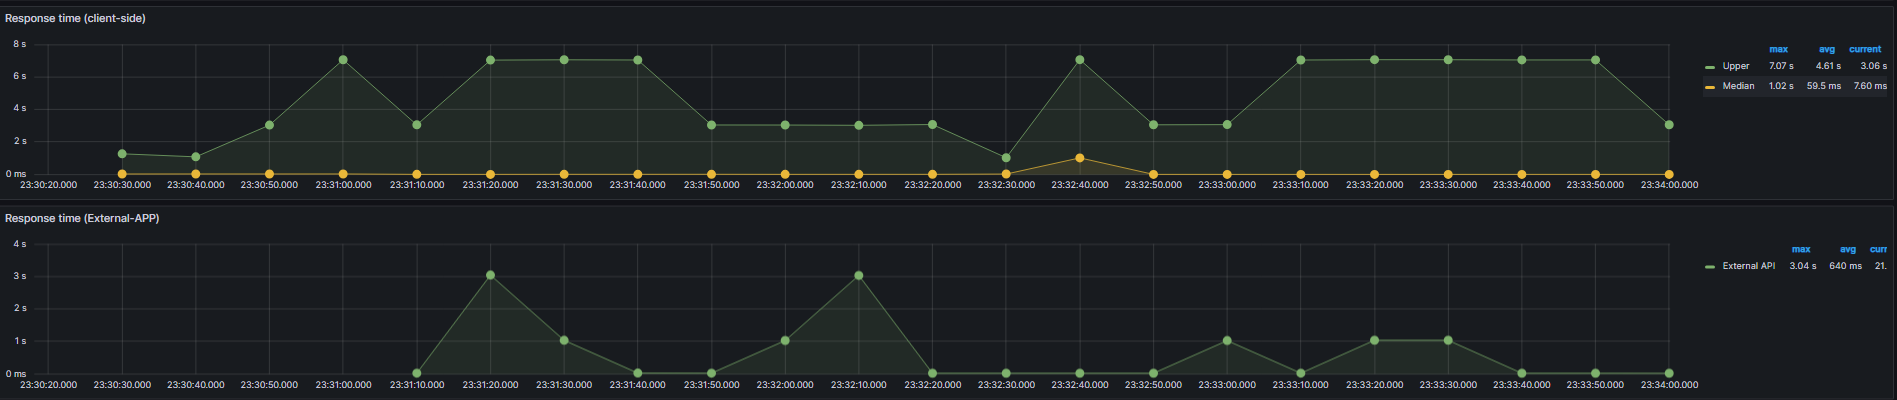
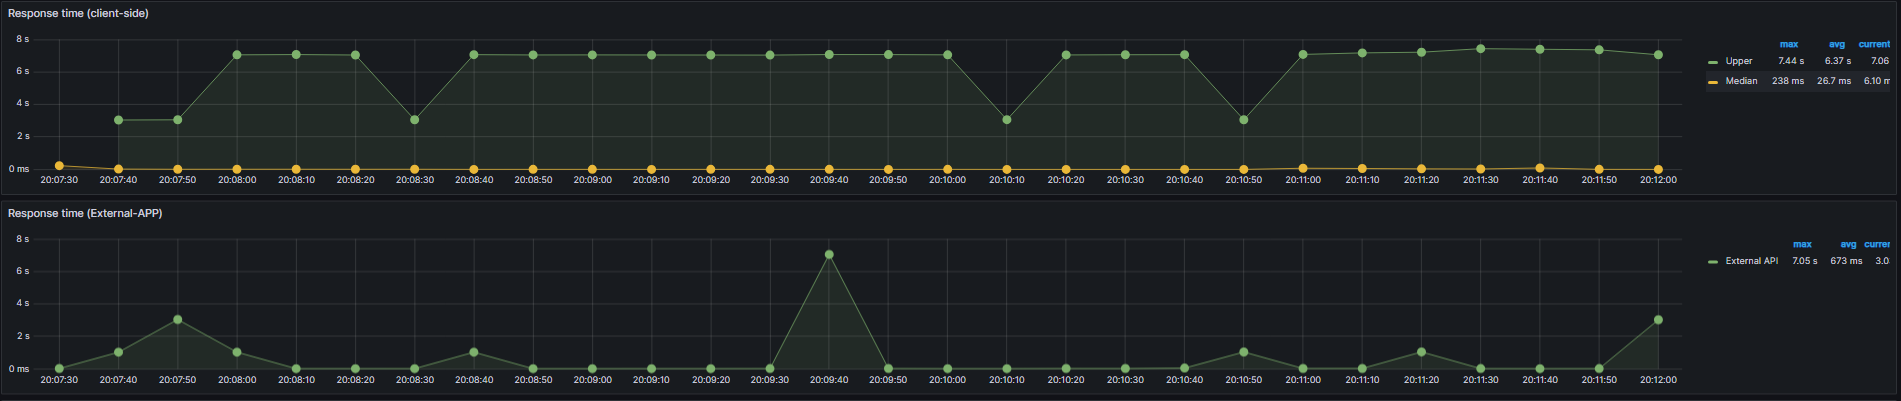
draft informe sin correcion ortografica

diff --git a/INFORME.md b/INFORME.md
@@ -70,28 +70,38 @@ Para las distintas estrategias implementadas se sometieron a las APIs a la sigui
 ```yaml
   phases:
     - name: Ramp [1]
-      duration: 30
-      arrivalRate: 5
-      rampTo: 50
+      duration: 20
+      arrivalRate: 10
+      rampTo: 30
     - name: Plain [1]
-      duration: 60
+      duration: 45
+      arrivalRate: 30
+    - name: Spike [1]
+      duration: 30
+      arrivalRate: 70
+    - name: Plain [2]
+      duration: 45
       arrivalRate: 50
     - name: Ramp [2]
-      duration: 30
+      duration: 20
       arrivalRate: 50
-      rampTo: 100
-    - name: Plain [2]
-      duration: 60
-      arrivalRate: 100
-    - name: Spike [1]
-      duration: 25
-      arrivalRate: 200
+      rampTo: 25
+    - name: Spike [2]
+      duration: 20
+      arrivalRate: 150
     - name: Plain [3]
-      duration: 60
-      arrivalRate: 150
-    - name: Ramp [Shutdown]
       duration: 30
-      arrivalRate: 150
+      arrivalRate: 120
+    - name: Spike [3]
+      duration: 45
+      arrivalRate: 350
+    - name: Ramp [Shutdown 1]
+      duration: 20
+      arrivalRate: 350
+      rampTo: 5
+    - name: Ramp [Shutdown 2]
+      duration: 10
+      arrivalRate: 5
       rampTo: 0
 ```
 
@@ -103,46 +113,114 @@ Para las distintas estrategias implementadas se sometieron a las APIs a la sigui
 ![quote_1.png](files%2Fbase%2FQuote%2Fquote_1.png)
 ![quote_2.png](files%2Fbase%2FQuote%2Fquote_2.png)
 
-### Observaciones
-> Es evidente que este caso de prueba demuestra una gran cantidad de request que fueron respondidas mediante 429 "Too Many Requests". Esto era de esperarse ya que la API de Quotable establece en su documentación un rate-limiting de 180 requests por minuto, por ende nuestro escenario de Artillery  le pega de manera agresiva a la API. Entonces el factor limitante en este caso viene siendo la API de Quotable, es decir, es esperable que una tecnica que disminuya la frecuencia con la que se hacen las API Calls ayudaria a que mejore la disponibilidad.
+> Es evidente que este caso de prueba demuestra una gran cantidad de request que fueron respondidas mediante 429 "Too Many Requests". Esto era de esperarse ya que la API de Quotable establece en su documentación un rate-limiting de 180 requests por minuto, por ende nuestro escenario de Artillery  le pega de manera agresiva a la API, siendo esta el factor limitante a nivel de capacidad para responder a una carga elevada de requests.
+
+> Mas allá de lo anterior, observamos tiempos de respuestas de la API externa bastante estables, aun asi cuando principalmente responde esos 429. Con respecto a nuestro propio endpoint vemos que este no varia y mantiene una media de al rededor de los 500ms.
+
+> Hipótesis: Replicación no seria particularmente beneficioso en este caso, ya que la cantidad de requests por minuto para la API seria la misma, rate-limit solo seria beneficioso si se implementa uno que se apegue a lo esperado por la API (180RPM), por ende el casos de cache podria llegar a ser el mejor ya que reduciriamos fuertemente las llamadas externas.
 
 
 #### Metar
 ![metar_1.png](files%2Fbase%2FMetar%2Fmetar_1.png)
 ![metar_2.png](files%2Fbase%2FMetar%2Fmetar_2.png)
+
+
+> La API de METAR arranca nuestro caso de prueba de manera bastante solida, el unico response code distinto de 200 es 404 lo cual es de esperarse para la seleccion al azar de codigos que elegimos.
+
+> El tiempo de respuesta de la API externa es bastante estable hasta llegar a la ultima fase de la prueba, en donde vemos que empieza a deteriorarse, sin embargo esta subida de tiempo es algo que notamos que persiste en todas las pruebas que hagamos asi que creemos que algo esta mal en la manera que medimos el tiempo.
+
+> Con respecto al tiempo de respuesta de nuestra propia API, su deterioro es consistente con el aumento fuerte de RPM en el ultimo tercio de la prueba, es aqui en donde empezamos a recibir ETIMEDOUT ya que Artillery empiza a notar que tardamos en responder.
+
+> Hipotesis: Para tratar los ETIMEDOUT que son de origen de nuestro servidor, el caso de replicacion nos ayudaria para hacer una distribucion de la carga mas uniforme y mantener disponibilidad, sin embargo la cantidad de llamadas a la API seria la misma, asi que no evitaria los 403 que eventualmente nos devolvera para limitarnos. La cache claramente ayudaria a saltarnos el 403 y tambien reducir los ETIMEDOUT ya que no nos veriamos afectados por el deterioro de la API. Rate-limit nos ayudaria a evitar los 403 pero estariamos sacrificando a cuantos usuarios somos capaces de responderle.
+
 #### Spaceflight News
 ![space_1.png](files%2Fbase%2FSpace%2Fspace_1.png)
 ![space_2.png](files%2Fbase%2FSpace%2Fspace_2.png)
+
+
+> Se observa una resiliciencia de parte del endpoint durante la mayoria de la prueba, el tiempo de respuesta de la API Externa es alto pero consistente, sin embargo al momento de llegar a la fase final, este empieza a deteriorarse afectando negativamente el procesamiento de la app interna, ademas vemos algunos errores 500 lo que indica que tambien se ve unas fallas del lado API Externa.
+
+> Hipotesis: Si replicamos no evitariamos el deterioro de la API Externa pero si nos podria ayudar a evitar algunos ETIMEDOUT al quedar mejor distribuida la carga, una cache sigue siendo la mejor opcion a simple vista para evitar sobrecargar la API Externa.
+
 ### Caso Replicacion
 
 #### Quote
 ![quote_rep_1.png](files%2Freplicacion%2FQuote%2Fquote_rep_1.png)
 ![quote_rep_2.png](files%2Freplicacion%2FQuote%2Fquote_rep_2.png)
+
+> Como era de esperarse, al tener 3 replicas la cantidad de API Calls siguen siendo las mismas, por lo cual nos encontraremos limitados por la mayor parte de toda la prueba. No se ven mejoras significativas en tiempos de respuestas de la API Externa.
+
 #### Metar
 ![metar_rep_1.png](files%2Freplicacion%2FMetar%2Fmetar_rep_1.png)
 ![metar_rep_2.png](files%2Freplicacion%2FMetar%2Fmetar_rep_2.png)
+
+> En comparacion al caso base, vemos que haber replicado nuestro servidor disminuyo significativamente los TIMEOUTs internos de la aplicacion, sin embargo no se observa ni una mejora significativa en los tiempos de respuesta de la API Externa (lo cual tiene sentido, mismas api calls) ni la disponibilidad de la misma (Siguen habiendo 403).
+
 #### Spaceflight News
 ![space_rep_1.png](files%2Freplicacion%2FSpace%2Fspace_rep_1.png)
 ![space_rep_2.png](files%2Freplicacion%2FSpace%2Fspace_rep_2.png)
+
+> En este caso si observamos una mejora con respecto a los TIMEDOUT causados por el pico de trafico, sin embargo aun persisten, esto quizas ya que la API sigue teniendo tiempos de respuesta bastante elevados al empezar a ser saturada, causando que para Artillery tengamos algunas requests que siguen pasandose de tiempo.
+
+## Caso Rate-Limit
+
+- Para la implentacion de este caso, se decidio ir con un rate-limit de 500 requests en una ventana de 5 segundos. (O el equivalente a 100 requests por segundo).
+
+#### Quote
+![quote_limit_1.png](files%2Flimite%2FQuote%2Fquote_limit_1.png)
+![quote_limit_2.png](files%2Flimite%2FQuote%2Fquote_limit_2.png)
+
+> Para el caso de las quotes, vemos que aun asi esta en efecto nuestro propio rate limit, no ibamos a llegar a una mejora sin aplicar un rate-limit igual o mas agresivo que el de la APIde Quotable. Es decir al menos un rate-limit de 3 requests por segundo. Para conservar la igualdad de las pruebas obviamos este caso.
+
+#### Metar
+![metar_limit_1.png](files%2Flimite%2FMetar%2Fmetar_limit_1.png)
+![metar_limit_2.png](files%2Flimite%2FMetar%2Fmetar_limit_2.png)
+
+> En el caso de Metar, observamos que desaparecen por completo los 403, esto tiene sentido, ya que evitamos saturar la API Externa, lo cual por consiguiente nos permitio a nuestra API no saturar su tiempo de respuesta en el ultimo tercio como en el caso base.
+
+#### Spaceflight News
+![space_limit_1.png](files%2Flimite%2FSpace%2Fspace_limit_1.png)
+![space_limit_2.png](files%2Flimite%2FSpace%2Fspace_limit_2.png)
+
+> Nuevamente el rate-limit logra evitar saturar la API de spaceflight, y consecuentemente el de nosotros. Nos deshacemos por completo de los 500 al costo de responder a mas usuarios con el 429, afectando nuestra disponibilidad para dar respuestas.
+
 ## Caso Cache
 
 #### Quote
 ![quote_cache_1.png](files%2Fcache%2FQuote%2Fquote_cache_1.png)
 ![quote_cache_2.png](files%2Fcache%2FQuote%2Fquote_cache_2.png)
+
+> Para el caso de las Quotes, se decidio no usar el REDIS, y optar mejor por una opcion in-memory, esto permitiendonos ahorrar el overhead y operaciones extra que debemos hacer para parsear la data guardada. Ademas, al ser quotes random y preferiblemente no repetidas, se opto por hace una variacion de la Active Population la cual consiste en guardarnos 50 quotes en una sola API call (cosa que permite la Api de Quotable) y mientras tengamos quotes en nuestra cache saltarnos el paso de ejecutar una llamada.
+
+> Aca se puede apreciar como la cache beneficia a la aplicacion y API de diversas maneras, primero que todo podemos observar que lastimosamente sigue aplicando el rate-limit de la API, esto ya que al solo cachearnos 50 quotes estas se acaban bastante rapido lo cual no nos evita tener que llamar. (Siempre se podria subir ese numero arbitrario de 50 a muchas mas...)
+
+> El response time de la aplicacion es minimo gracias a la cache, alcanzando su maximo eventualmente cuando necesite recopilar otras 50 quotes.
+
 #### Metar
 ![metar_cache_1.png](files%2Fcache%2FMetar%2Fmetar_cache_1.png)
 ![metar_cache_2.png](files%2Fcache%2FMetar%2Fmetar_cache_2.png)
+
+> Para la API de Metar implementamos Lazy Population, almacenando el METAR por 5 segundos de cualquier codigo que NO este presente en el REDIS.
+
+> En comparacion con el caso base la cache logro que evitaramos por completo los ETIMEDOUT y el rate-limit (403) impuesto por la API Externa.
+
+> El response time de nuestro endpoint nuevamente se mantuve muy bajo gracias a la cache y el de la API externa solo alcanza picos para refrescar la cache de vez en cuando.
+
 #### Spaceflight News
 ![space_cache_1.png](files%2Fcache%2FSpace%2Fspace_cache_1.png)
 ![space_cache_2.png](files%2Fcache%2FSpace%2Fspace_cache_2.png)
-## Caso Rate-Limit
 
-#### Quote
-![quote_limit_1.png](files%2Flimite%2FQuote%2Fquote_limit_1.png)
-![quote_limit_2.png](files%2Flimite%2FQuote%2Fquote_limit_2.png)
-#### Metar
-![metar_limit_1.png](files%2Flimite%2FMetar%2Fmetar_limit_1.png)
-![metar_limit_2.png](files%2Flimite%2FMetar%2Fmetar_limit_2.png)
-#### Spaceflight News
-![space_limit_1.png](files%2Flimite%2FSpace%2Fspace_limit_1.png)
-![space_limit_2.png](files%2Flimite%2FSpace%2Fspace_limit_2.png)
+> Para el spaceflight optamos nuevamente por Lazy Population de las ultimas 5 noticias por 10 segundos.
+
+> Nuevamente, desaparecen todos los ETIMEDOUT y 500 del caso base ya que se reducen drasticamente las llamadas por API. El tiempo de respuesta de nuestro endpoint es minimo y evitamos saturar la API de spaceflight con llamados redundantes que quizas dentro del rango de tiempo de ejecucion nunca vayan a cambiar su respuesta.
+
+
+## Conclusiones
+
+En comparacion del caso base, cada una de las tacticas presenta un beneficio, sin embargo, depende mucho de los atributos de calidad que mas se valoren en el caso especifico.
+
+En el caso del rate-limiting, sirve para ayudar a no saturar los servicios externos a nuestra app y contribuir a mantener la disponibilidad sin embargo esto es logrado sacrificando una gran parte de los usuarios que le termina respondiendo.
+
+La replicación mediante la buena distribucion de requests permite que nuestra app sea mas robusta al momento de responder a grandes cargas de requests y el procesamiento interno que estas conlleven, sin embargo los servicios externos siguen recibiendo la misma carga. Un dato que vale la pena mencionar es que al ser todos los llamados desde la misma maquina, para estos servicios externos sigue siendo la misma IP que los usa, por ende llegamos a ser mas limitados de lo que deberiamos si usaramos infraestructura real, es decir, otra maquina se podrian llegar a ver mejores resultados.
+
+Por ultimo pero no menos importante, la cache, esta evidentemente dio los mejores resultados, ademas de mantener los tiempos de respuestas MUY bajos, evitaba que las APIs externas fueran saturadas con pedidos redundantes, el unico momento en donde esta tecnica se ve vulnerada es en los pequeños momentos en el que debe refrescarse y puede llegar a causar picos de tiempos de respuesta.
